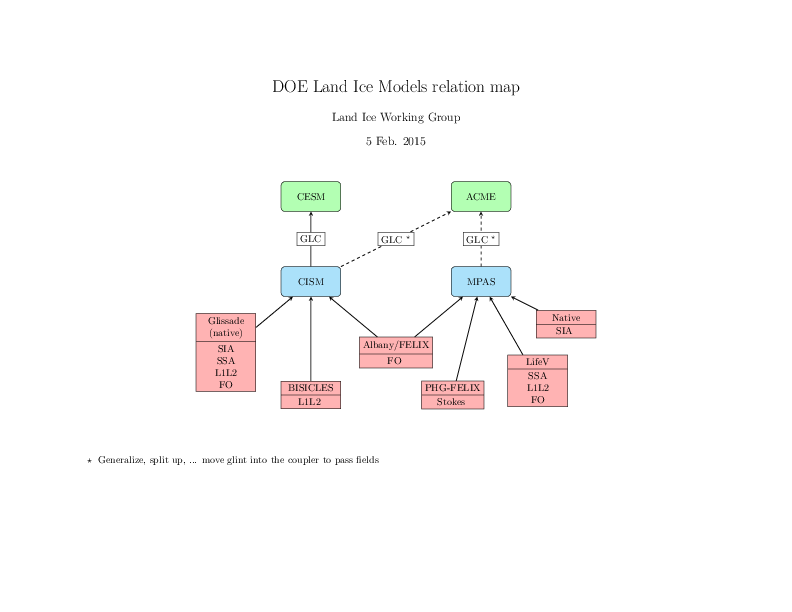
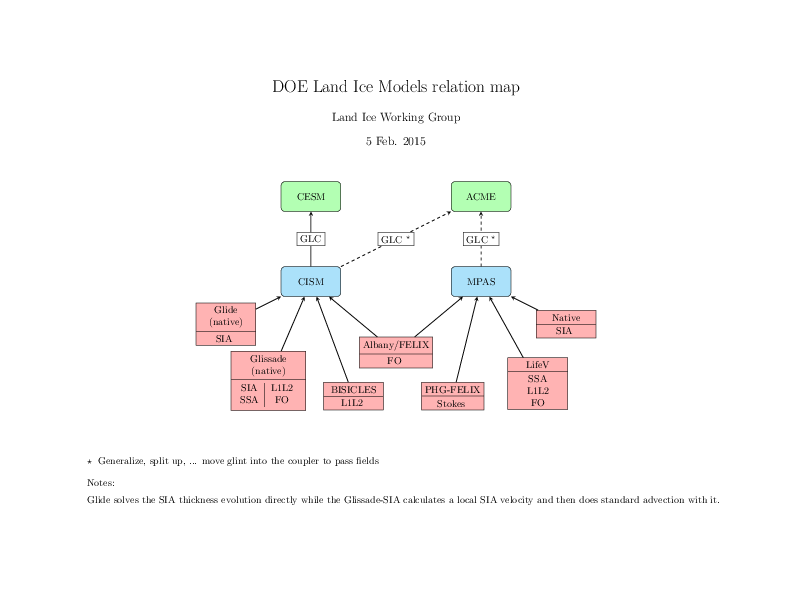
Add the Glide dycore to CISM

diff --git a/mapCommands.tex b/mapCommands.tex
@@ -5,11 +5,19 @@
 \node [iceModel] (MPAS)       at ([shift={(0,-1.5)}] ACME) {MPAS};
 
 
-\node [dycore] (Glissade)     at ([shift={(-1.5,-1.25)}] CISM) {
-    Glissade \\ (native)
-    \nodepart{second} SIA \\ SSA \\ L1L2 \\ FO
+\node [dycore] (Glide)        at ([shift={(-1.5,-.75)}] CISM) {
+    Glide \\ (native)
+    \nodepart{second} SIA
     };
-\node [dycore] (BISICLES)     at ([shift={(-0,-2)}] CISM) {
+\node [dycore] (Glissade)     at ([shift={(-.75,-1.75)}] CISM) {
+    Glissade \\ (native)
+    \nodepart{second} 
+    \begin{tabular}{c|c}
+        SIA & L1L2 \\ 
+        SSA & FO 
+    \end{tabular}
+    };
+\node [dycore] (BISICLES)     at ([shift={(.75,-2.02)}] CISM) {
     BISICLES
     \nodepart{second} L1L2 
     };
@@ -19,11 +27,11 @@
     };
 
 
-\node [dycore] (PHG)    at ([shift={(-.5,-2)}] MPAS) {
+\node [dycore] (PHG)    at ([shift={(-.5,-2.02)}] MPAS) {
     PHG-FELIX 
     \nodepart{second} Stokes
     };
-\node [dycore] (LifeV)        at ([shift={(1,-1.75)}] MPAS) {
+\node [dycore] (LifeV)        at ([shift={(1,-1.8)}] MPAS) {
     LifeV
     \nodepart{second} SSA \\ L1L2 \\ FO
     };
@@ -38,6 +46,7 @@
 \draw [dashedArrow] (MPAS) -- (ACME);
 
 \draw [arrow] (Glissade) -- (CISM);
+\draw [arrow] (Glide) -- (CISM);
 \draw [arrow] (Albany) -- (CISM);
 \draw [arrow] (BISICLES) -- (CISM);
 

diff --git a/main.tex b/main.tex
@@ -26,4 +26,11 @@
 
     \vspace{3em}
     $\star \;$ Generalize, split up, ... move glint into the coupler to pass fields
+
+    \vspace{1em}
+    Notes:
+    
+    \vspace{.5em}
+    Glide solves the SIA thickness evolution directly while the Glissade-SIA 
+    calculates a local SIA velocity and then does standard advection with it.
 \end{document}
